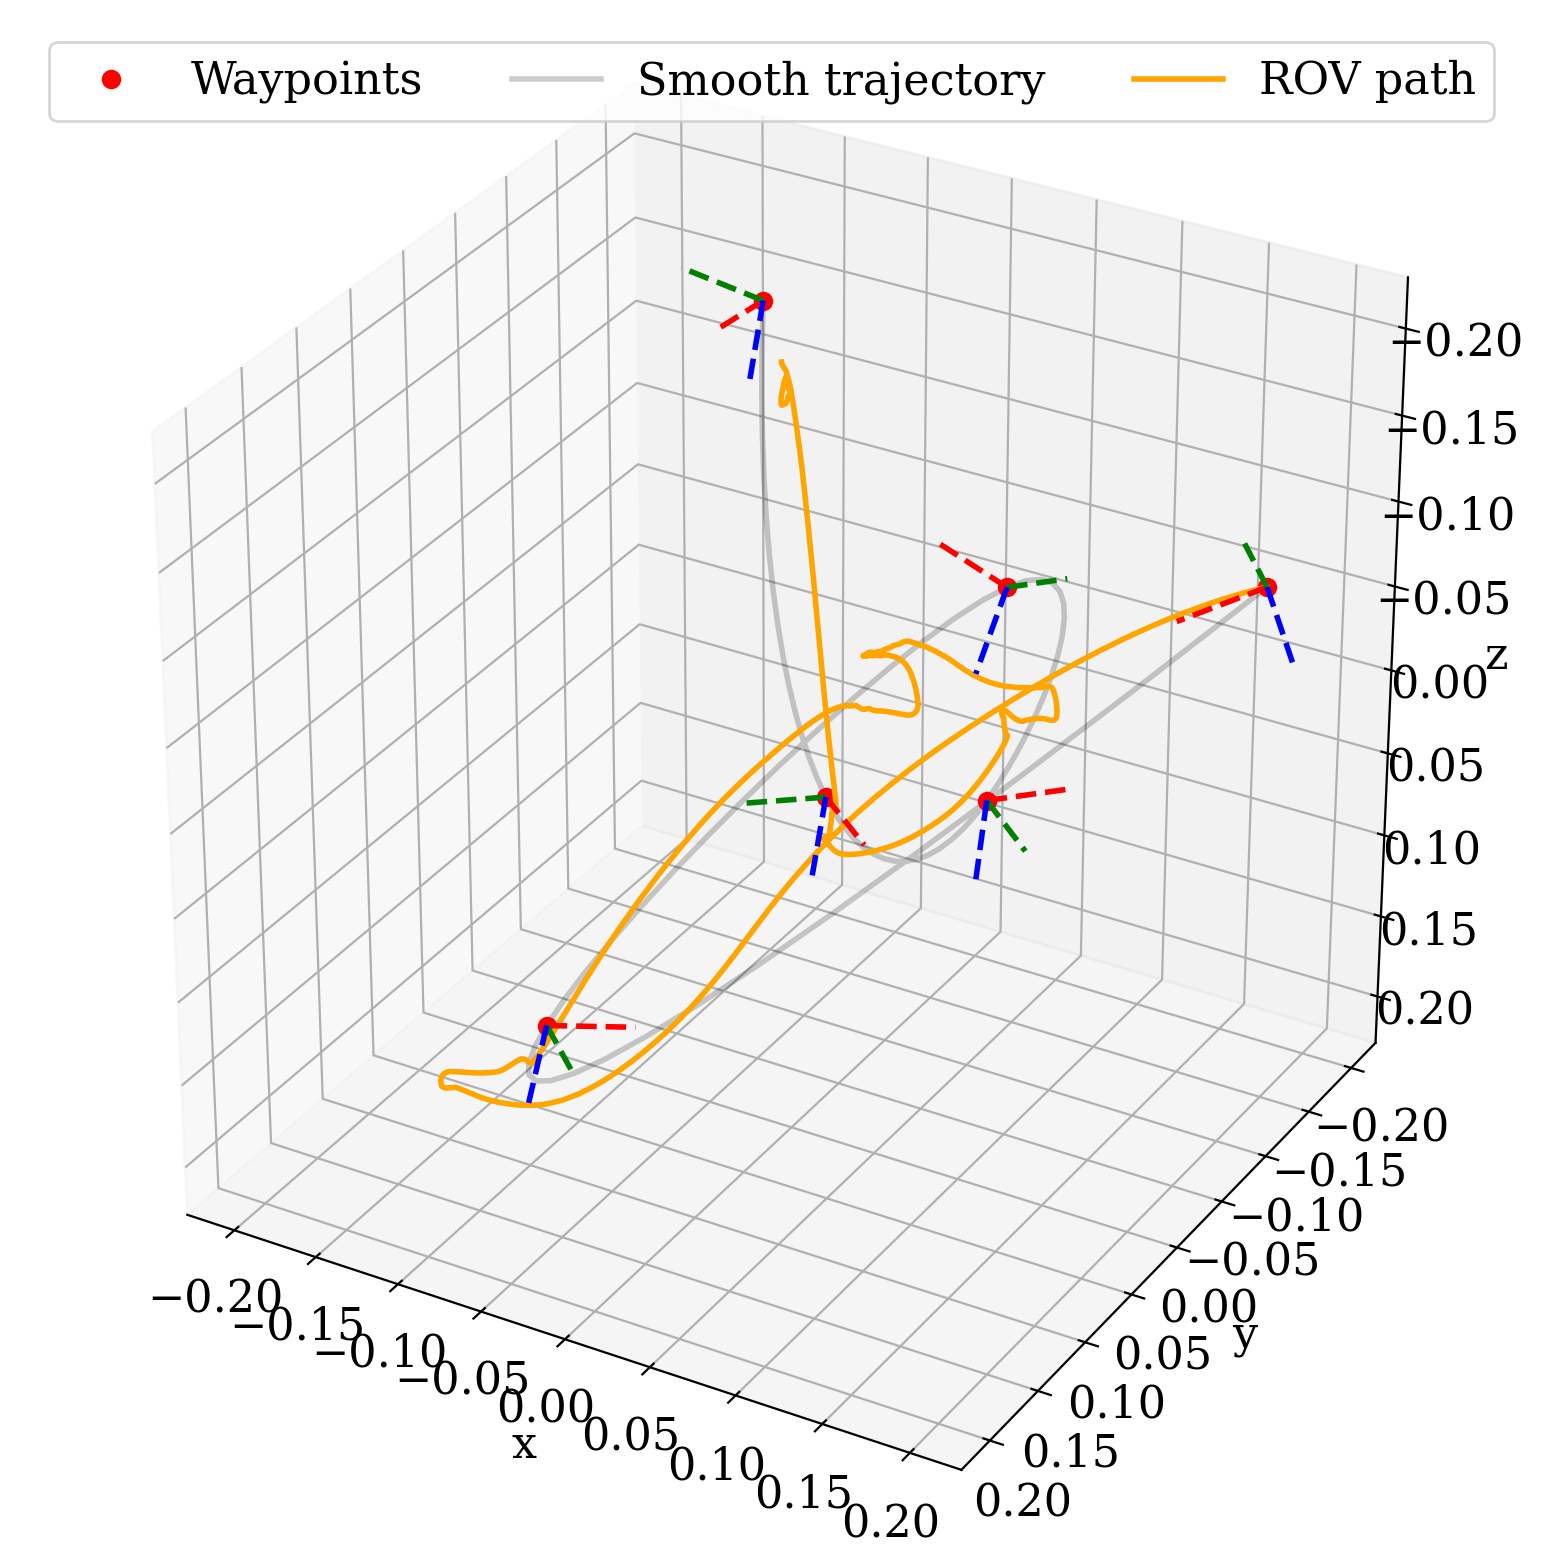
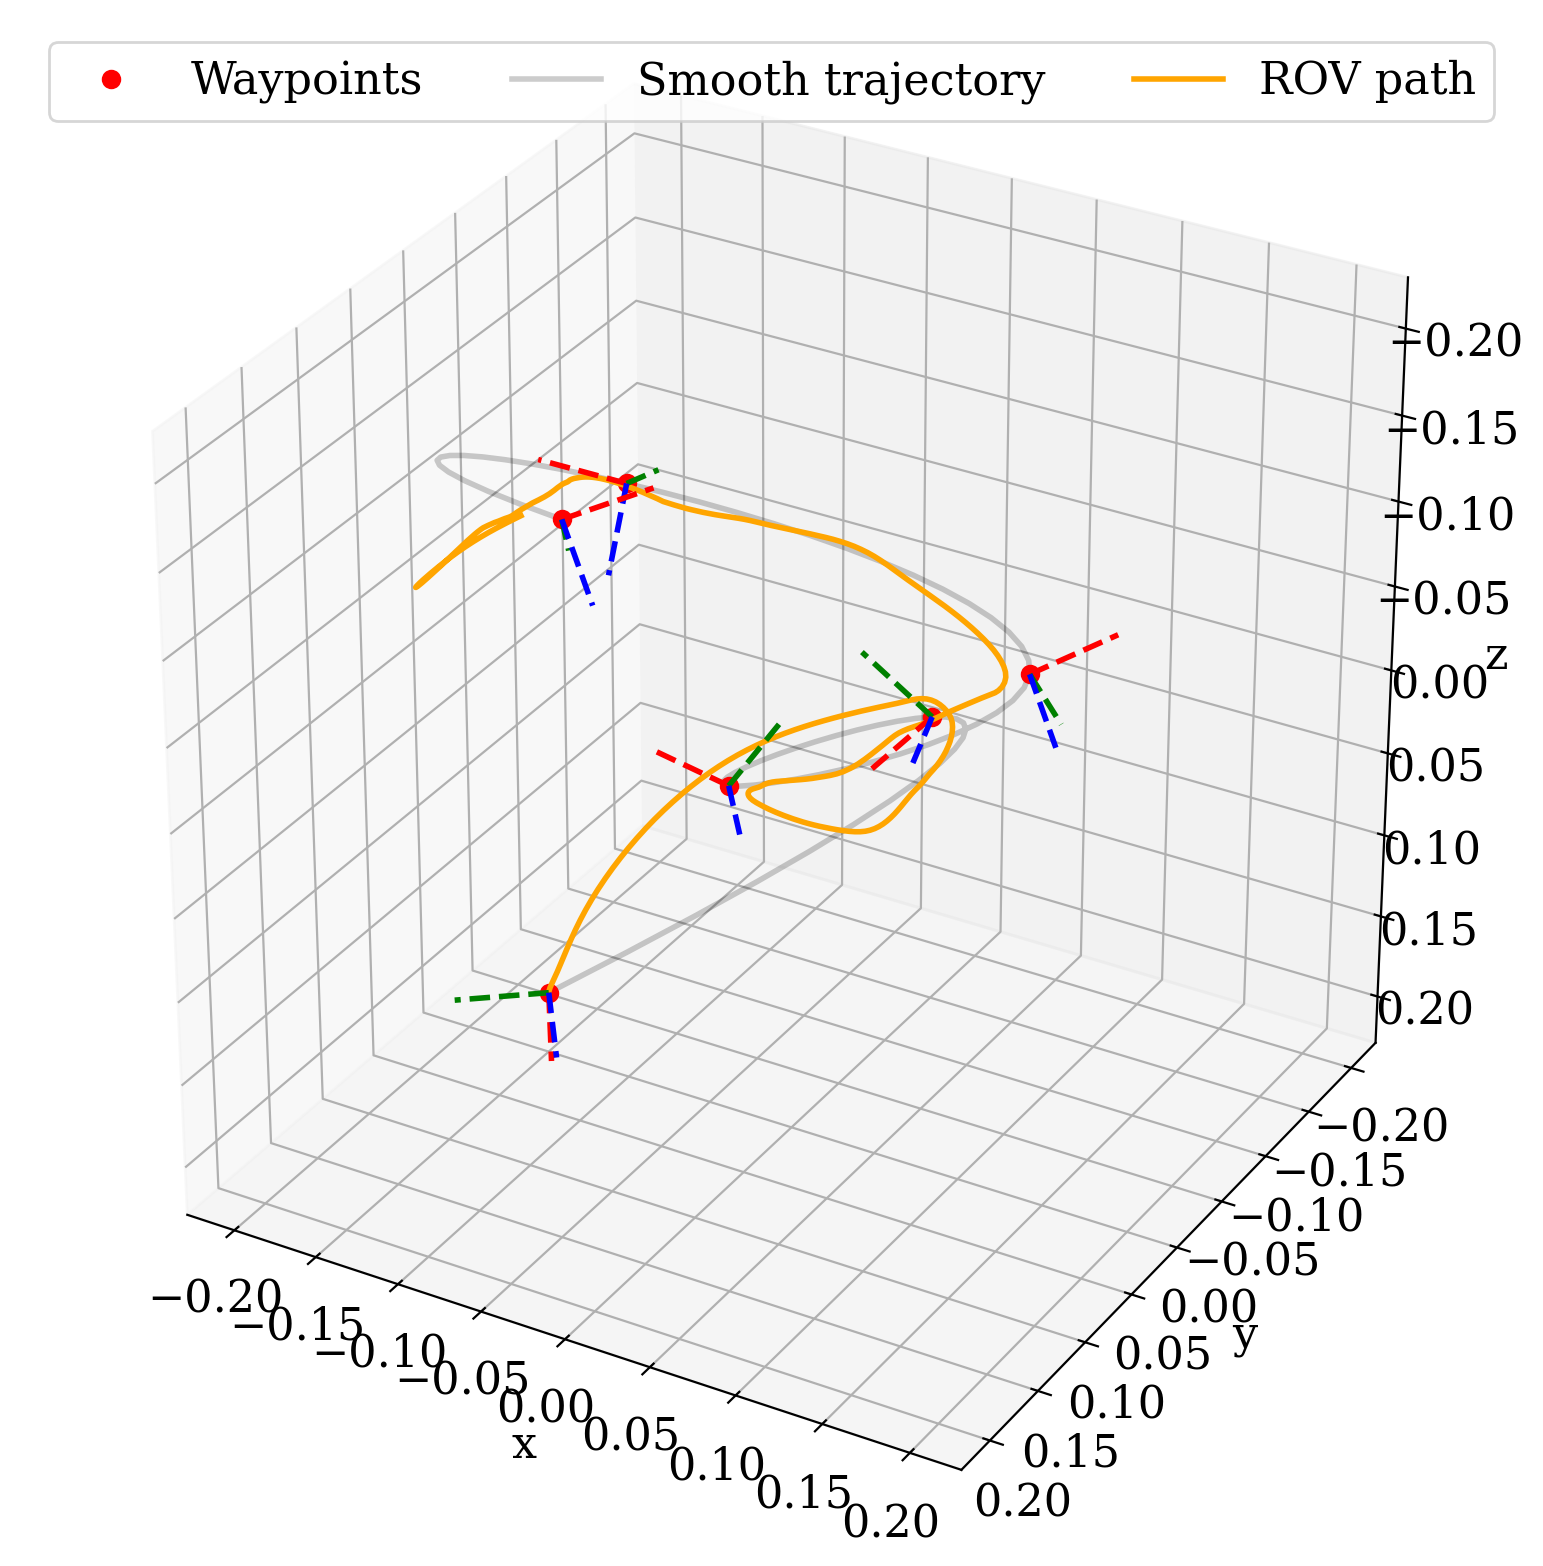
SAving of random trajectories for future mL

Changed region(s): [[0.28, 0.1839, 0.8399, 0.705], [0.28, 0.3372, 0.3111, 0.3678]]

diff --git a/example_trialTrajectories.py b/example_trialTrajectories.py
@@ -16,7 +16,10 @@ font = {"family": "serif",
 matplotlib.rc("font", **font)
 matplotlib.rcParams["figure.figsize"] = (9, 6)
 
-saveFigs = True
+saveFigs = False
+
+saveData = False
+dataLabel = "N_51_v0"
 
 # DOFs = ["X", "Y", "Z", "PHI", "THETA", "PSI"]
 DOFs = ["x", "y", "z", "phi", "theta", "psi"]
@@ -26,7 +29,7 @@ massNames = ["mx", "my", "mz", "Ix", "Iy", "Iz"]
 
 ds = 1.
 dsFine = ds/15.
-nPts = 5
+nPts = 51
 
 dofRange = dict(zip(DOFs, [0.2, 0.2, 0.2, 25./180.*np.pi, 25./180.*np.pi, np.pi]))
 
@@ -186,5 +189,8 @@ for i in dfWpsCoarse.index:
         ds=dofRange["x"]/4., ls="--")
 if saveFigs:
     plt.savefig("./Figures/randomTrajectory_result.png", dpi=200, bbox_inches="tight")
+
+if saveData:
+    history.to_csv("tempData/randomWaypoints_{}.csv".format(dataLabel), index=False)
 
 plt.show()

diff --git a/dynamicsModel_BlueROV2_Heavy_6DoF.py b/dynamicsModel_BlueROV2_Heavy_6DoF.py
@@ -48,7 +48,7 @@ class BlueROV2Heavy6DoF_PID_controller(object):
         # K_P = np.array([25., 25., 25., 0.5, 0.5, 1.])
         # K_I = np.array([2., 2., 2., 0.1, 0.1, 0.2])
         # K_D = np.array([20., 20., 20., 0.1, 0.1, 0.65])
-        forceMomentMaxMagnitudes = [50., 50., 50., 2., 2., 2.]
+        forceMomentMaxMagnitudes = [50., 50., 50., 1., 1., 2.]
         K_P = np.array([25., 25., 25., 10., 10., 1.])
         K_I = np.array([2., 2., 2., 0.1, 0.1, 0.2])
         K_D = np.array([20., 20., 20., 5., 5., 0.65])
